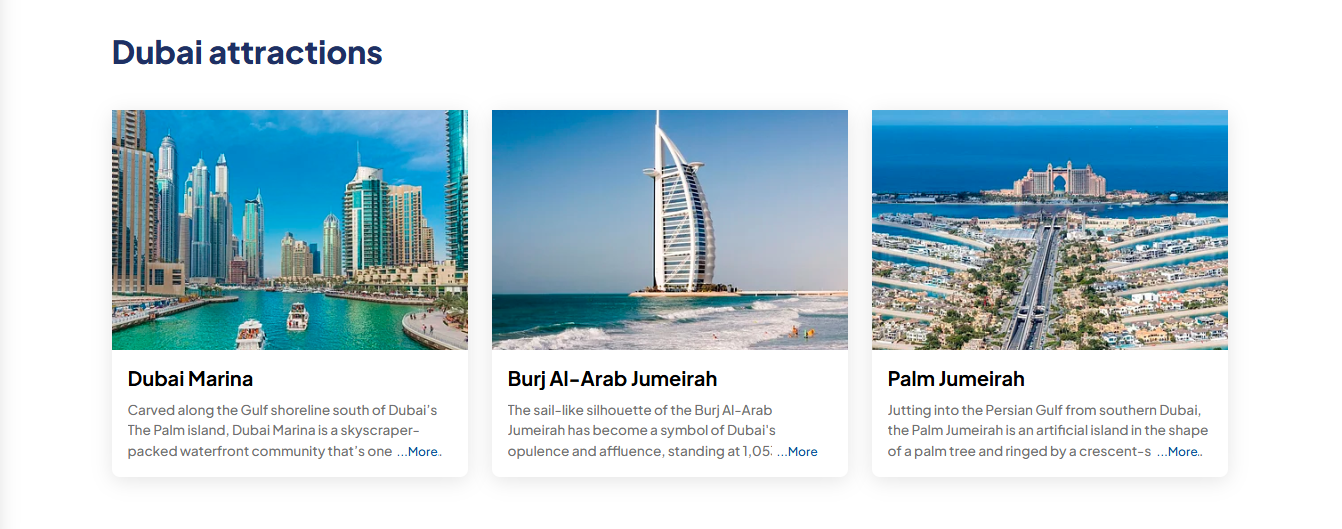
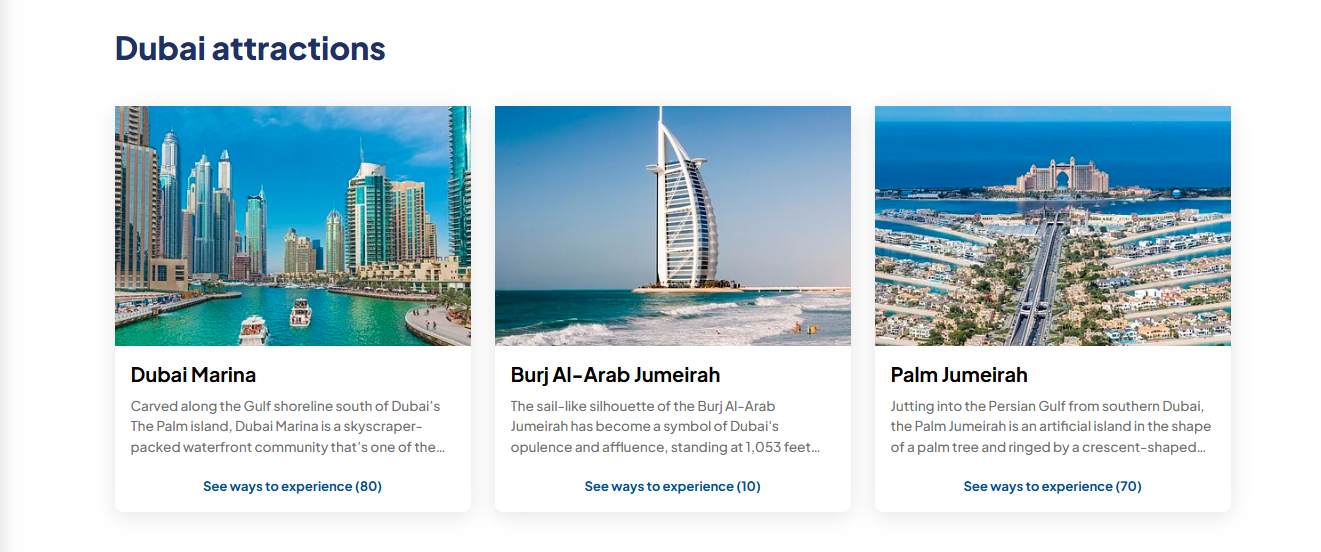
show tour count on first category design

diff --git a/public/frontend/assets/css/style.css b/public/frontend/assets/css/style.css
@@ -7896,21 +7896,18 @@ ul.show-in-desktop {
     font-size: 0.85rem;
     font-weight: 500;
     line-height: 1.5;
-    position: relative;
     height: 61px;
 }
 .category-card__content .description * {
     color: inherit;
     font: inherit;
 }
-.category-card__content .description .more {
-    position: absolute;
-    bottom: 0;
-    right: 14px;
-    background-color: #fff;
+.category-card__content .more {
     color: var(--color-primary);
-    font-size: 12px;
-    padding-left: 4px;
+    font-size: 13px;
+    text-align: center;
+    font-weight: 700;
+    padding-top: 0.65rem;
 }
 /* category-card */
 

diff --git a/resources/views/components/category-card.blade.php b/resources/views/components/category-card.blade.php
@@ -15,10 +15,8 @@
                     <div class="line-clamp-3">
                         {{ $category->short_description }}
                     </div>
-                    @if (strlen($category->short_description) > 180)
-                        <a href="{{ $detailUrl }}" class="more">...More</a>
-                    @endif
                 </div>
+                <a href="{{ $detailUrl }}" class="more">See ways to experience ({{ $category->tours->count() }})</a>
             </div>
         </div>
     @break
